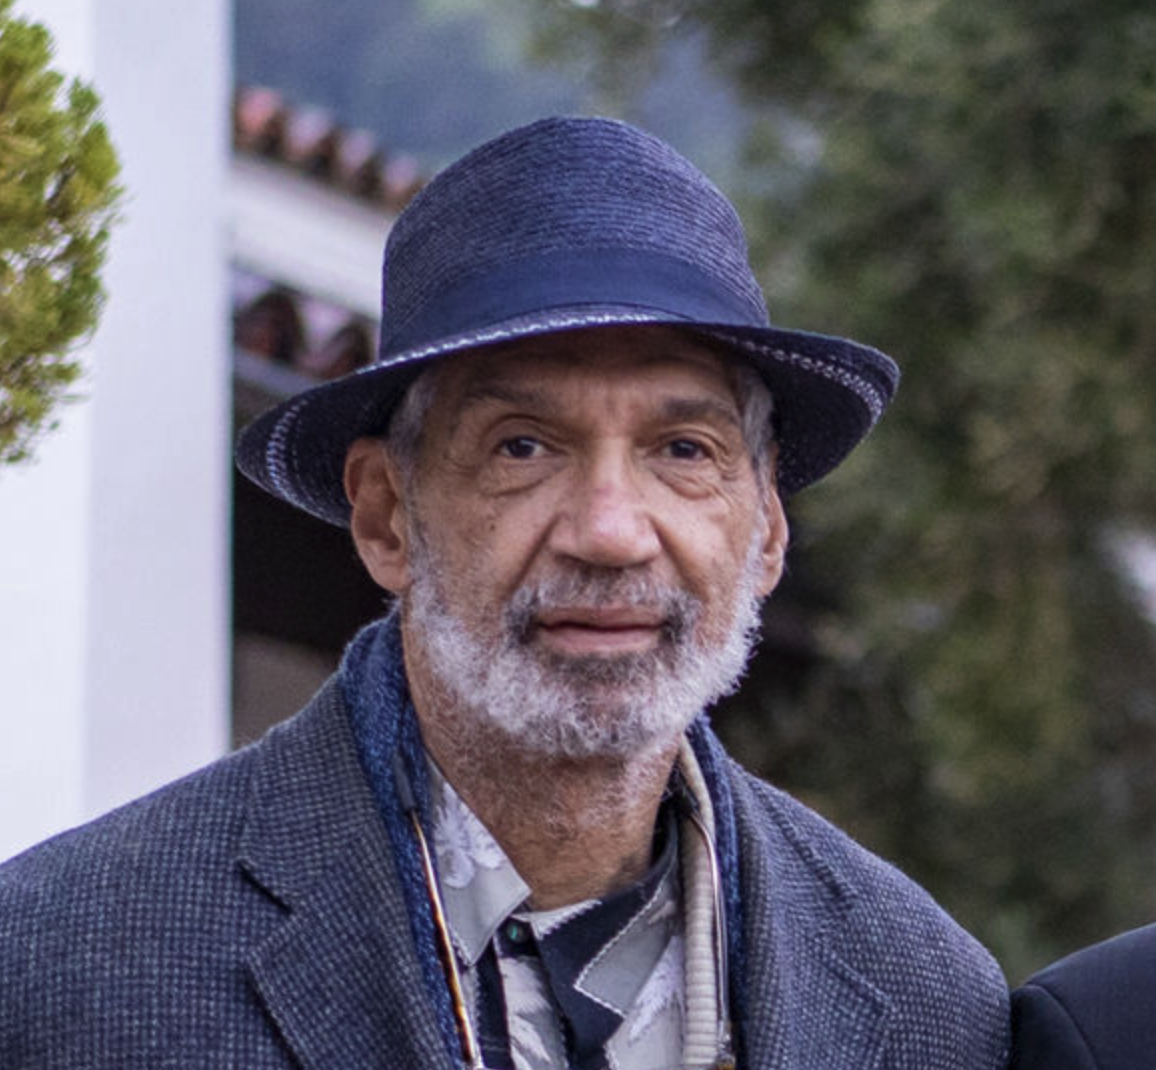
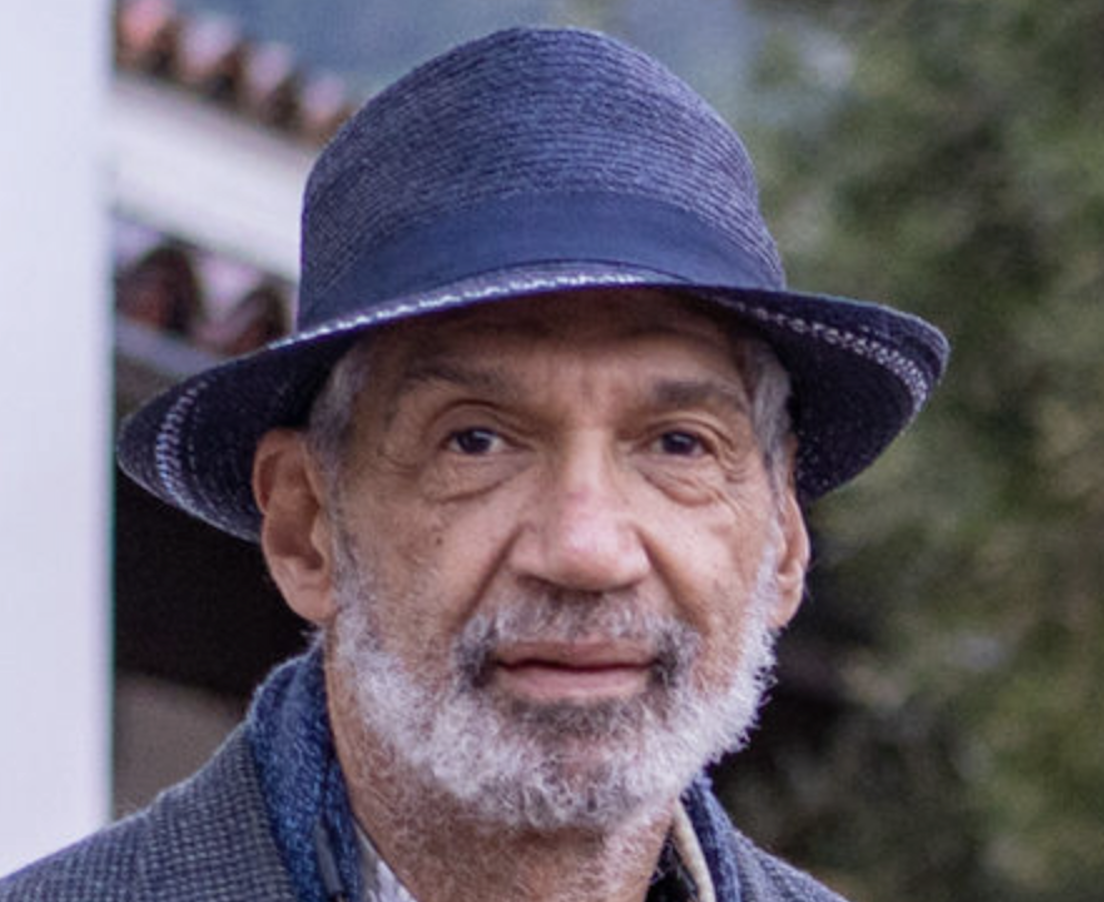
intro pics resized, overflow-hidden fixed

diff --git a/src/pages/Introduction.jsx b/src/pages/Introduction.jsx
@@ -1,7 +1,5 @@
 import Herman from '../assets/herman.png'
 import Musheer from '../assets/musheer.png'
-import { ScrollDown } from '../components/ScrollDown';
-
 export const Introduction = () => {
     return (
         <section id="" className="min-h-screen flex flex-col items-center text-center justify-center relative px-4 overflow-hidden">
@@ -39,7 +37,7 @@ export const Introduction = () => {
                     <img 
                       src={Musheer} 
                       alt="Musheer" 
-                      className='mask mask-squircle w-full h-full object-cover'
+                      className='mask mask-squircle w-md h-md object-cover'
                     />
                   </div>
                   <div className="absolute bottom-full right-1/2 md:right-0 translate-x-1/2 md:translate-x-0 mb-2 opacity-0 group-hover:opacity-100 transition-opacity duration-500 w-[90vw] md:w-fit max-w-[300px] md:max-w-3xl pointer-events-none">

diff --git a/src/components/Navbar.jsx b/src/components/Navbar.jsx
@@ -36,7 +36,7 @@ export const Navbar = () => {
             </div>
             <div className="navbar-center">
                 <div className="flex flex-col items-center">
-                    <div className="flex items-center gap-2"> 
+                    <div className="flex items-center justify-center gap-2"> 
                         <progress 
                             className="bg-gray-300 progress progress-secondary w-32 md:w-90" 
                             value={scrollProgress} 
